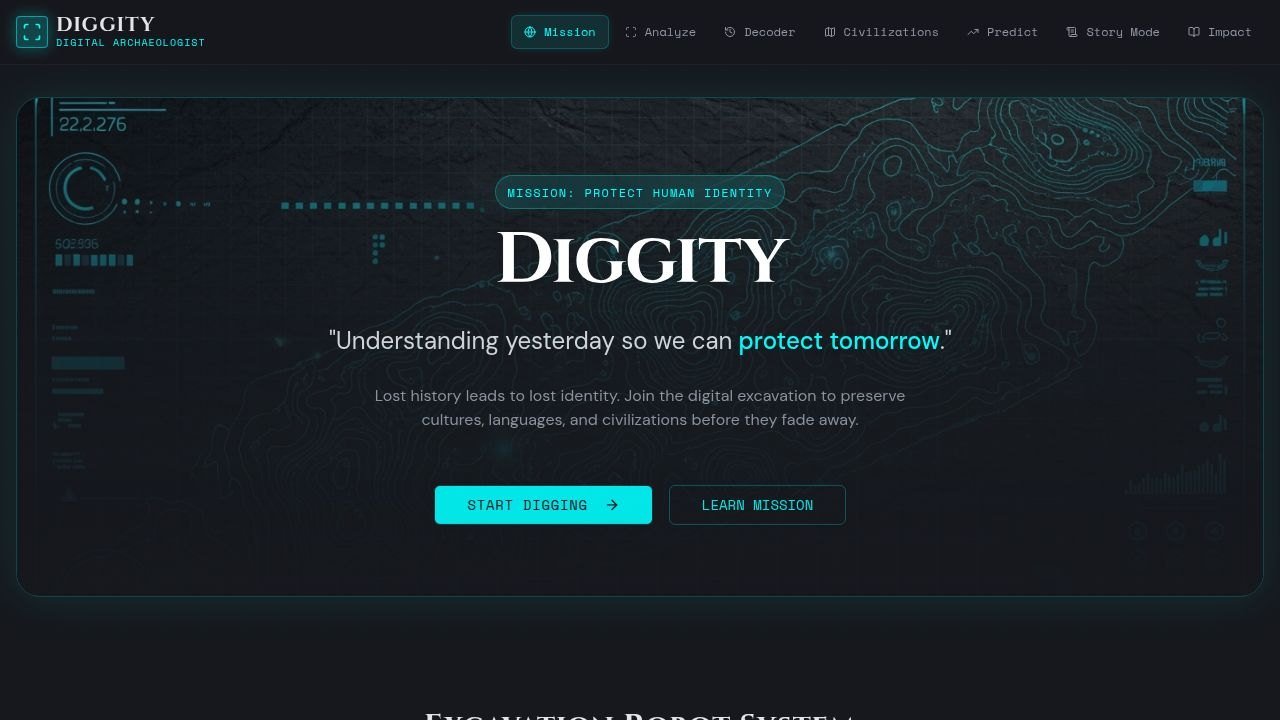
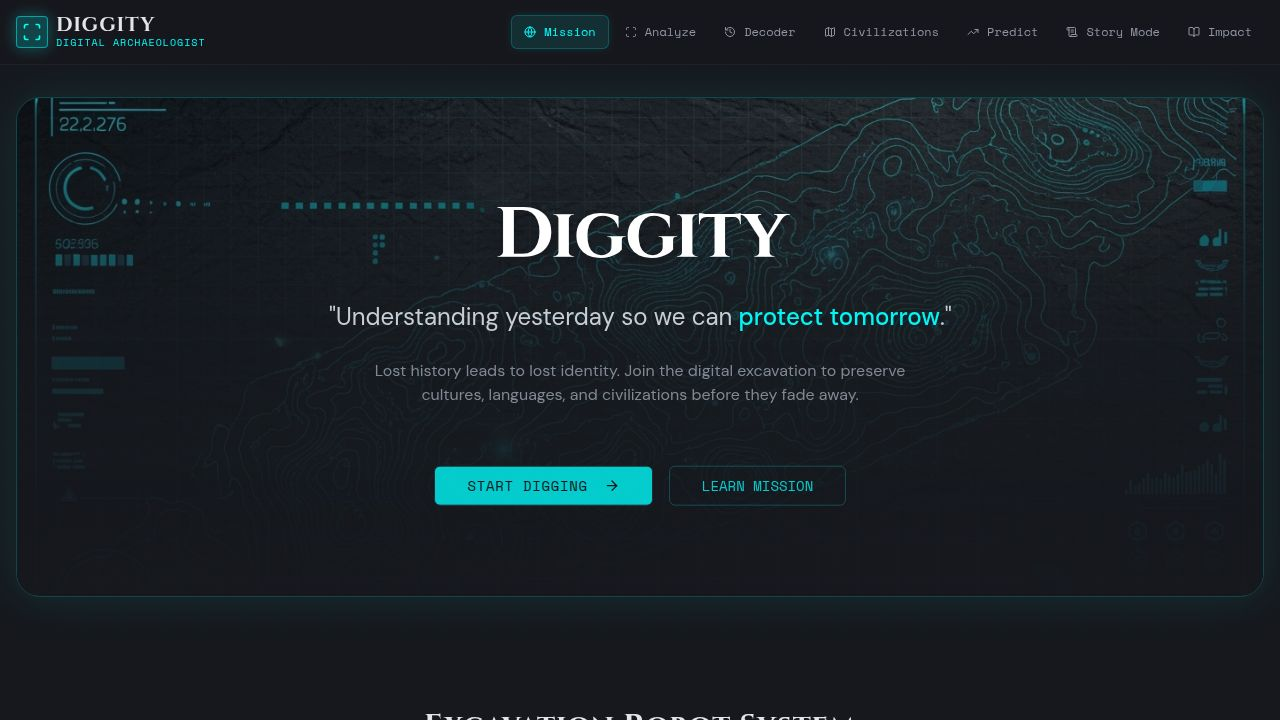
Remove mission statement from home page hero section
Remove the "Mission: Protect Human Identity" badge from the top of the hero section in Home.tsx.

Replit-Commit-Author: Agent
Replit-Commit-Session-Id: 4f819bd2-7cc0-4653-861f-75c5ad5a4bd0
Replit-Commit-Checkpoint-Type: full_checkpoint
Replit-Commit-Event-Id: 2bde41ea-48d5-494d-ae36-7dcc2d04e869
Replit-Commit-Screenshot-Url: https://storage.googleapis.com/screenshot-production-us-central1/c595bfd0-a84b-4913-85c1-8cdd85d5b620/4f819bd2-7cc0-4653-861f-75c5ad5a4bd0/eTmmz8P
Replit-Helium-Checkpoint-Created: true

Changed region(s): [[0.25, 0.4278, 0.75, 0.6111], [0.375, 0.2444, 0.625, 0.3972], [0.3125, 0.6417, 0.6562, 0.7333]]

diff --git a/client/src/pages/Home.tsx b/client/src/pages/Home.tsx
@@ -22,13 +22,7 @@ export default function Home() {
 
         {/* Content */}
         <div className="relative z-10 max-w-3xl px-6 space-y-6">
-          <div className="inline-block px-3 py-1 rounded-full border border-primary/30 bg-primary/10 backdrop-blur-md mb-4 animate-in fade-in slide-in-from-bottom-4 duration-700">
-            <span className="font-mono text-xs text-primary tracking-widest uppercase">
-              Mission: Protect Human Identity
-            </span>
-          </div>
-          
-          <h1 className="text-5xl md:text-7xl font-display font-bold text-white tracking-tight drop-shadow-lg animate-in fade-in slide-in-from-bottom-6 duration-700 delay-100">
+          <h1 className="text-5xl md:text-7xl font-display font-bold text-white tracking-tight drop-shadow-lg animate-in fade-in slide-in-from-bottom-6 duration-700">
             Diggity
           </h1>
           
